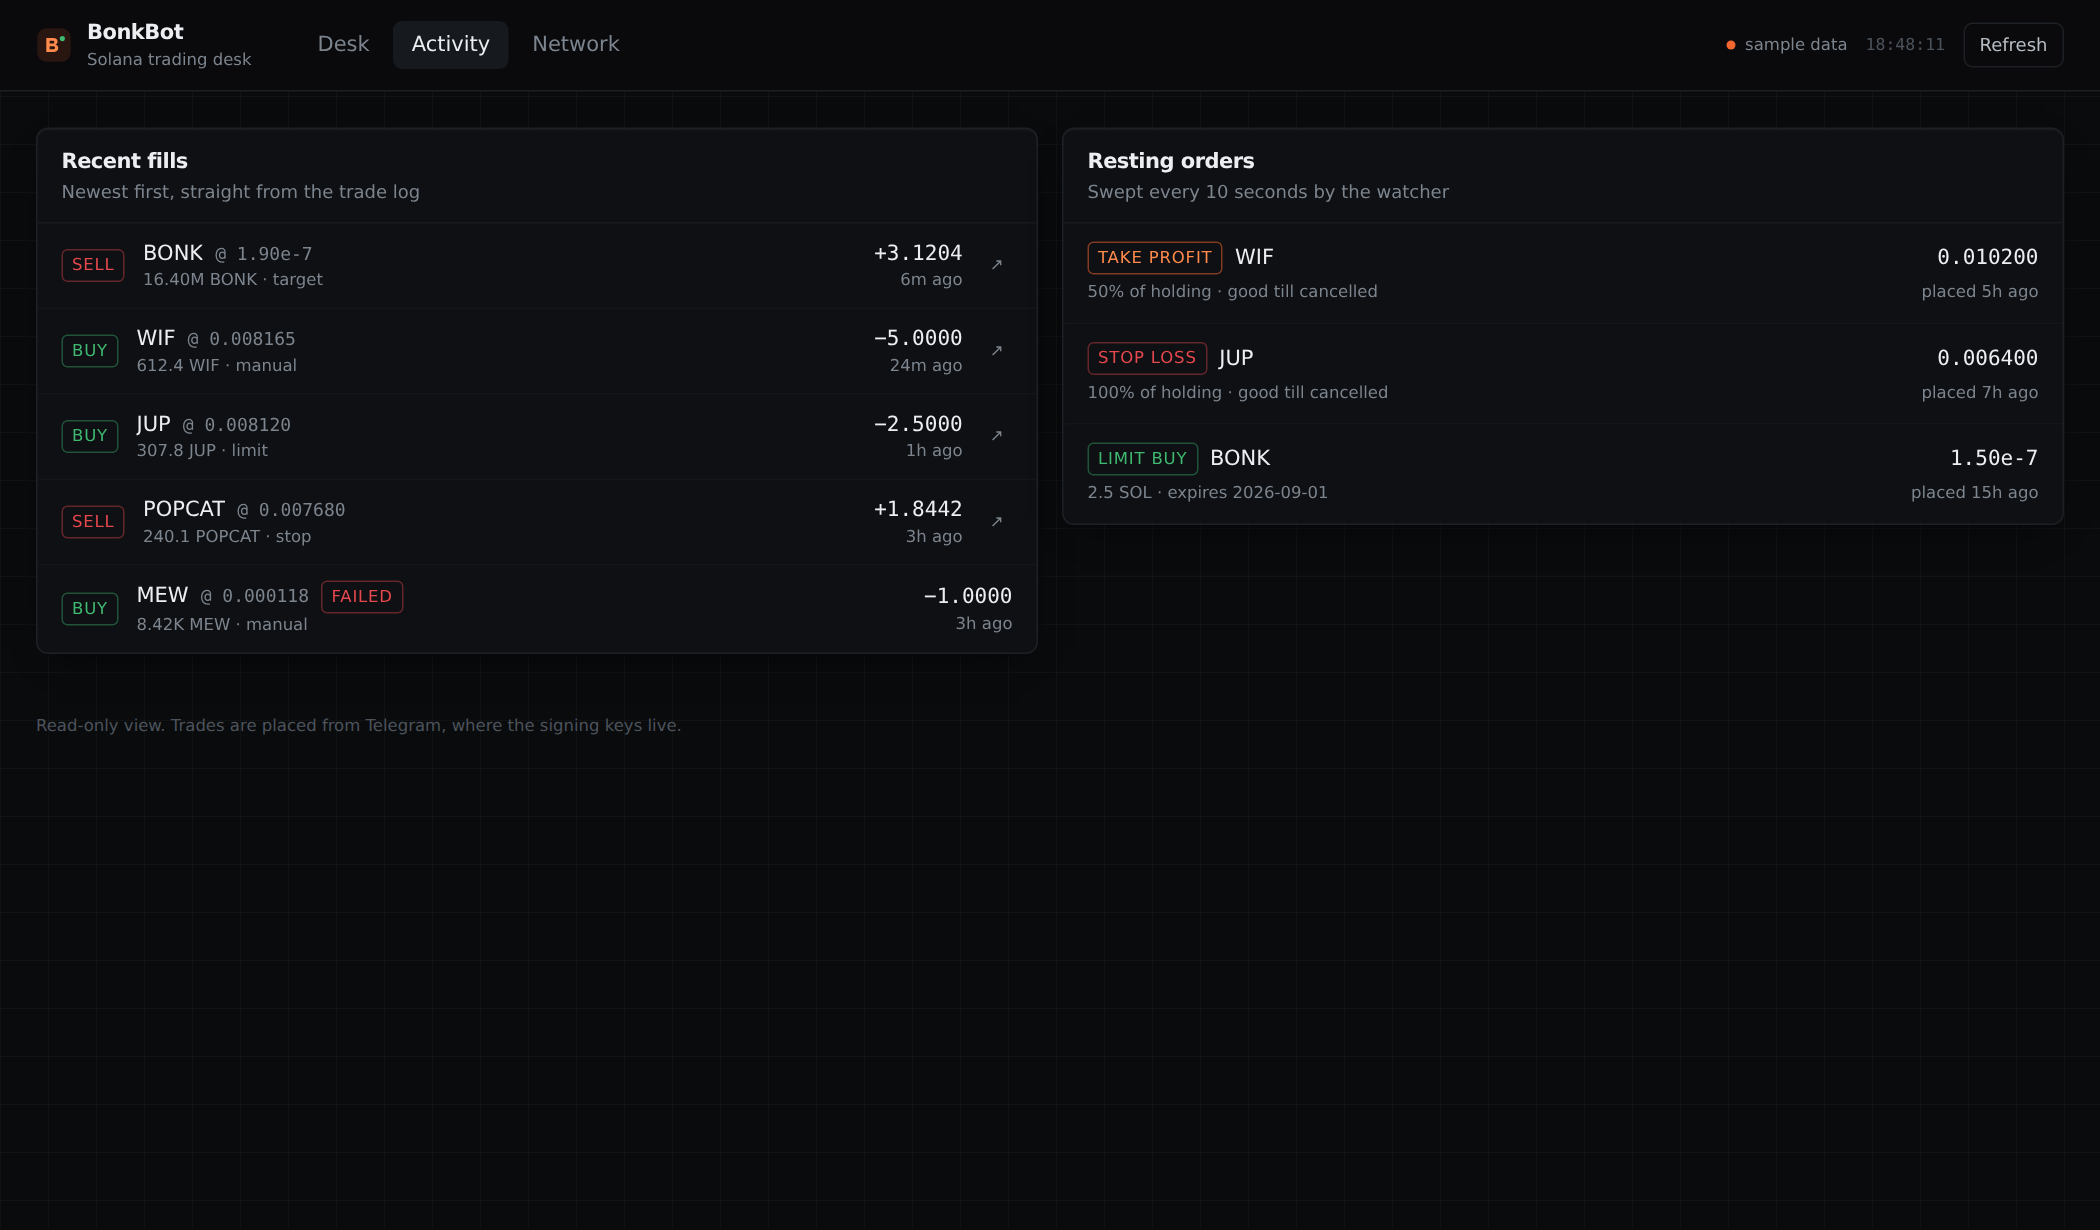
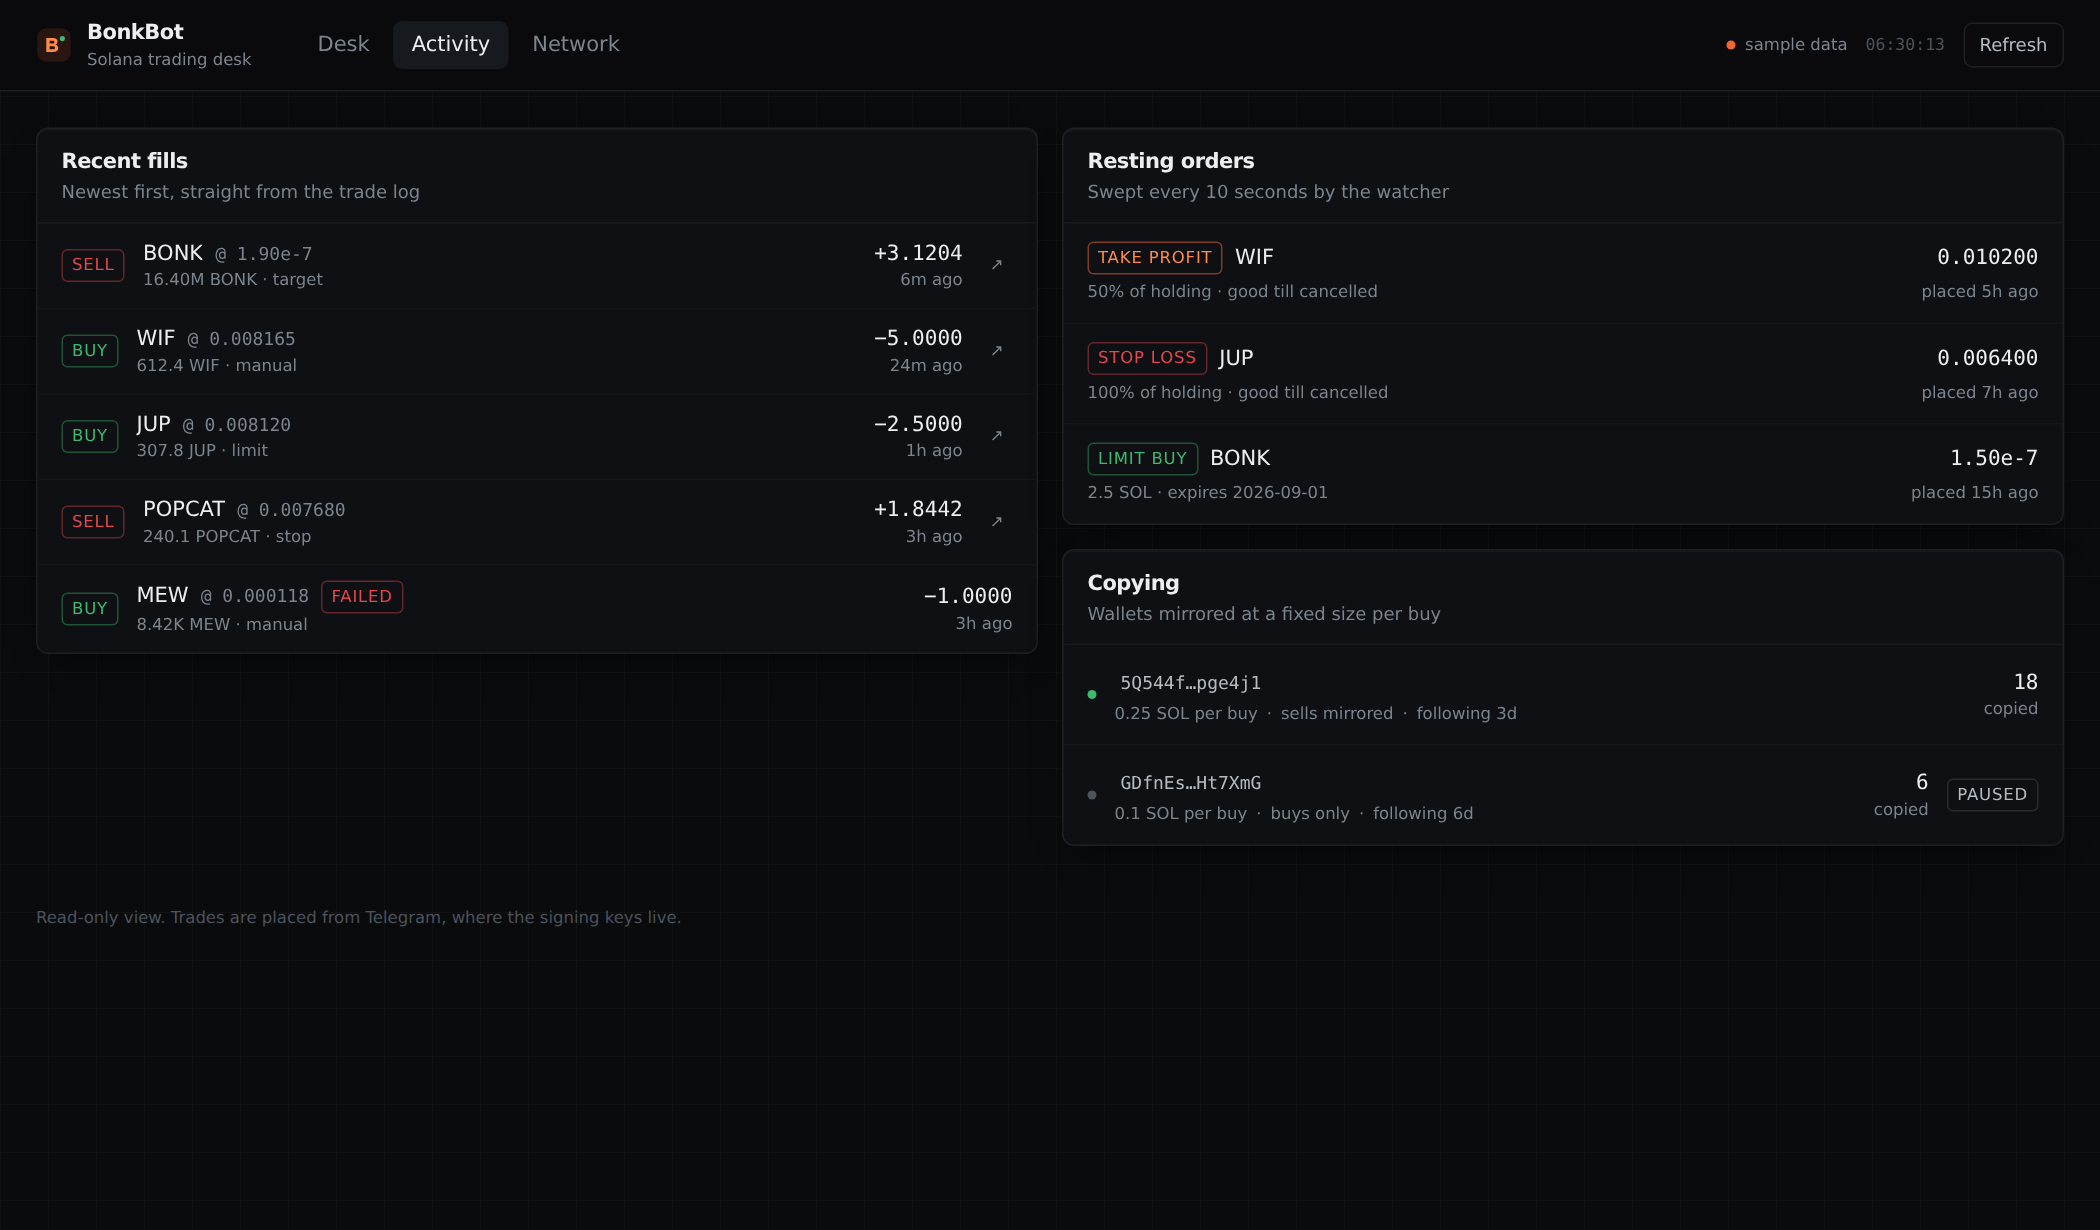
Show followed wallets on the dashboard
The Activity tab carried resting orders but nothing about copy trading,
so half of what the watchers do was invisible from the web.

The token endpoint returns only a cached safety verdict. Running a fresh
analysis costs two Jupiter quotes, and an unauthenticated endpoint that
triggers them is a way to make the deployment pay for someone's crawl.

diff --git a/web/src/App.tsx b/web/src/App.tsx
@@ -1,8 +1,15 @@
 import { useCallback, useEffect, useMemo, useState } from 'react';
-import { fetchOrders, fetchOverview, fetchPortfolio, fetchTrades } from './lib/api';
+import {
+  fetchCopyTargets,
+  fetchOrders,
+  fetchOverview,
+  fetchPortfolio,
+  fetchTrades,
+} from './lib/api';
 import { pct, usd } from './lib/format';
 import { Leaderboard } from './components/Leaderboard';
 import { Metric } from './components/Metric';
+import { CopyPanel } from './components/CopyPanel';
 import { OrdersPanel } from './components/OrdersPanel';
 import { PositionsTable } from './components/PositionsTable';
 import { Shell, type View } from './components/Shell';
@@ -10,7 +17,7 @@ import { Sparkline } from './components/Sparkline';
 import { TradesTable } from './components/TradesTable';
 import { WalletsPanel } from './components/WalletsPanel';
 import { Panel, SkeletonRows } from './components/primitives';
-import type { Overview, OrderRow, Portfolio, TradeRow } from './lib/types';
+import type { CopyTargetRow, Overview, OrderRow, Portfolio, TradeRow } from './lib/types';
 
 const REFRESH_MS = 20_000;
 
@@ -22,6 +29,7 @@ interface DeskData {
   portfolio: Portfolio;
   trades: TradeRow[];
   orders: OrderRow[];
+  copyTargets: CopyTargetRow[];
 }
 
 export default function App() {
@@ -31,15 +39,23 @@ export default function App() {
   const [updatedAt, setUpdatedAt] = useState<Date | null>(null);
 
   const load = useCallback(async () => {
-    const [[overview, o1], [portfolio, o2], [trades, o3], [orders, o4]] = await Promise.all([
-      fetchOverview(),
-      fetchPortfolio(userRef),
-      fetchTrades(userRef),
-      fetchOrders(userRef),
-    ]);
+    const [[overview, o1], [portfolio, o2], [trades, o3], [orders, o4], [copies, o5]] =
+      await Promise.all([
+        fetchOverview(),
+        fetchPortfolio(userRef),
+        fetchTrades(userRef),
+        fetchOrders(userRef),
+        fetchCopyTargets(userRef),
+      ]);
 
-    setData({ overview, portfolio, trades: trades.trades, orders: orders.orders });
-    setLive(o1 && o2 && o3 && o4);
+    setData({
+      overview,
+      portfolio,
+      trades: trades.trades,
+      orders: orders.orders,
+      copyTargets: copies.targets,
+    });
+    setLive(o1 && o2 && o3 && o4 && o5);
     setUpdatedAt(new Date());
   }, []);
 
@@ -82,7 +98,7 @@ export default function App() {
     );
   }
 
-  const { overview, portfolio, trades, orders } = data;
+  const { overview, portfolio, trades, orders, copyTargets } = data;
   const equitySol =
     portfolio.totals.valueSol +
     portfolio.wallets.reduce((sum, wallet) => sum + wallet.solBalance, 0);
@@ -157,9 +173,14 @@ export default function App() {
           <Panel title="Recent fills" subtitle="Newest first, straight from the trade log">
             <TradesTable trades={trades} />
           </Panel>
-          <Panel title="Resting orders" subtitle="Swept every 10 seconds by the watcher">
-            <OrdersPanel orders={orders} />
-          </Panel>
+          <div className="space-y-4">
+            <Panel title="Resting orders" subtitle="Swept every 10 seconds by the watcher">
+              <OrdersPanel orders={orders} />
+            </Panel>
+            <Panel title="Copying" subtitle="Wallets mirrored at a fixed size per buy">
+              <CopyPanel targets={copyTargets} />
+            </Panel>
+          </div>
         </div>
       )}
 

diff --git a/src/api/routes.ts b/src/api/routes.ts
@@ -3,6 +3,8 @@ import * as orderRepo from '../db/repositories/orders';
 import * as tradeRepo from '../db/repositories/trades';
 import * as userRepo from '../db/repositories/users';
 import * as walletService from '../services/wallets';
+import * as copyRepo from '../db/repositories/copy';
+import { cachedReport } from '../services/safety';
 import * as positionService from '../services/positions';
 import { getSolBalance, isValidAddress, isValidMint } from '../services/solana';
 import { getSolUsdPrice, getPriceInSol } from '../services/prices';
@@ -161,6 +163,27 @@ export const registerRoutes = (app: Express): void => {
     });
   });
 
+  app.get('/api/users/:userRef/copy-targets', (req: Request, res: Response) => {
+    const user = resolveUser(req.params.userRef ?? '');
+    if (!user) {
+      res.status(404).json({ error: 'user_not_found' });
+      return;
+    }
+
+    res.json({
+      targets: copyRepo.listByUser(user.id).map((target) => ({
+        id: target.id,
+        address: target.target_address,
+        label: target.label,
+        sizeSol: target.size_sol,
+        mirrorSells: Boolean(target.mirror_sells),
+        status: target.status,
+        copiedCount: target.copied_count,
+        createdAt: target.created_at,
+      })),
+    });
+  });
+
   app.get('/api/tokens/:mint', async (req: Request, res: Response) => {
     const mint = req.params.mint ?? '';
     if (!isValidMint(mint)) {
@@ -182,6 +205,9 @@ export const registerRoutes = (app: Express): void => {
       logoUri: token.logo_uri,
       priceSol: priceSol ?? 0,
       priceUsd: (priceSol ?? 0) * solUsd,
+      // Only the cached verdict: a fresh analysis costs two quotes and this
+      // endpoint should not be a way to make the bot pay for someone's crawl.
+      safety: cachedReport(mint) ?? null,
     });
   });
 

diff --git a/web/src/components/CopyPanel.tsx b/web/src/components/CopyPanel.tsx
@@ -1,0 +1,47 @@
+import { relativeTime, shortAddress } from '../lib/format';
+import { Copyable, EmptyState, Tag } from './primitives';
+import type { CopyTargetRow } from '../lib/types';
+
+export const CopyPanel = ({ targets }: { targets: CopyTargetRow[] }) => {
+  if (targets.length === 0) {
+    return (
+      <EmptyState
+        title="Not following anyone"
+        hint="Followed wallets are scanned every 20 seconds and their swaps mirrored at a fixed size."
+      />
+    );
+  }
+
+  return (
+    <ul className="divide-y divide-ink-600/40">
+      {targets.map((target) => (
+        <li key={target.id} className="flex items-center gap-3 px-4 py-3">
+          <span
+            className={`h-1.5 w-1.5 shrink-0 rounded-full ${
+              target.status === 'active' ? 'bg-gain' : 'bg-chalk-700'
+            }`}
+            title={target.status === 'active' ? 'Mirroring' : 'Paused'}
+          />
+
+          <div className="min-w-0 flex-1">
+            <Copyable value={target.address} display={shortAddress(target.address, 6)} />
+            <div className="mt-0.5 flex items-center gap-1.5 text-2xs text-chalk-500">
+              <span>{target.sizeSol} SOL per buy</span>
+              <span>·</span>
+              <span>{target.mirrorSells ? 'sells mirrored' : 'buys only'}</span>
+              <span>·</span>
+              <span>following {relativeTime(target.createdAt).replace(' ago', '')}</span>
+            </div>
+          </div>
+
+          <div className="text-right">
+            <div className="tabular font-mono text-sm text-chalk-100">{target.copiedCount}</div>
+            <div className="text-2xs text-chalk-500">copied</div>
+          </div>
+
+          {target.status === 'paused' && <Tag>paused</Tag>}
+        </li>
+      ))}
+    </ul>
+  );
+};

diff --git a/web/src/lib/demo.ts b/web/src/lib/demo.ts
@@ -1,4 +1,4 @@
-import type { Overview, OrderRow, Portfolio, TradeRow } from './types';
+import type { CopyTargetRow, Overview, OrderRow, Portfolio, TradeRow } from './types';
 
 /**
  * Sample desk used when the API is not reachable (a static deploy, or the
@@ -104,4 +104,27 @@ export const demoOrders: OrderRow[] = [
   { id: 84, kind: 'take_profit', symbol: 'WIF', mint: 'EKpQGSJtjMFqKZ9KQanSqYXRcF8fBopzLHYxdM65zcjm', triggerPriceSol: 0.0102, amountSol: null, amountPct: 50, expiresAt: null, createdAt: minutesAgo(320) },
   { id: 83, kind: 'stop_loss', symbol: 'JUP', mint: 'JUPyiwrYJFskUPiHa7hkeR8VUtAeFoSYbKedZNsDvCN', triggerPriceSol: 0.0064, amountSol: null, amountPct: 100, expiresAt: null, createdAt: minutesAgo(420) },
   { id: 82, kind: 'limit_buy', symbol: 'BONK', mint: 'DezXAZ8z7PnrnRJjz3wXBoRgixCa6xjnB7YaB1pPB263', triggerPriceSol: 0.00000015, amountSol: 2.5, amountPct: null, expiresAt: '2026-09-01 00:00:00', createdAt: minutesAgo(900) },
+];
+
+export const demoCopyTargets: CopyTargetRow[] = [
+  {
+    id: 3,
+    address: '5Q544fKrFoe6tsEbD7S8EmxGTJYAKtTVhAW5Q5pge4j1',
+    label: null,
+    sizeSol: 0.25,
+    mirrorSells: true,
+    status: 'active',
+    copiedCount: 18,
+    createdAt: minutesAgo(4320),
+  },
+  {
+    id: 2,
+    address: 'GDfnEsia2WLAW5t8yx2X5j2mkfA74i5kwGdDuZHt7XmG',
+    label: null,
+    sizeSol: 0.1,
+    mirrorSells: false,
+    status: 'paused',
+    copiedCount: 6,
+    createdAt: minutesAgo(9000),
+  },
 ];

diff --git a/web/src/lib/api.ts b/web/src/lib/api.ts
@@ -1,5 +1,5 @@
-import { demoOrders, demoOverview, demoPortfolio, demoTrades } from './demo';
-import type { Overview, OrderRow, Portfolio, TradeRow } from './types';
+import { demoCopyTargets, demoOrders, demoOverview, demoPortfolio, demoTrades } from './demo';
+import type { CopyTargetRow, Overview, OrderRow, Portfolio, TradeRow } from './types';
 
 const BASE = import.meta.env.VITE_API_URL ?? '';
 
@@ -43,4 +43,10 @@ export const fetchOrders = (userRef: number | string) =>
   withDemo(
     () => get<{ orders: OrderRow[] }>(`/api/users/${userRef}/orders`),
     { orders: demoOrders },
+  );
+
+export const fetchCopyTargets = (userRef: number | string) =>
+  withDemo(
+    () => get<{ targets: CopyTargetRow[] }>(`/api/users/${userRef}/copy-targets`),
+    { targets: demoCopyTargets },
   );

diff --git a/web/src/lib/types.ts b/web/src/lib/types.ts
@@ -71,3 +71,14 @@ export interface OrderRow {
   expiresAt: string | null;
   createdAt: string;
 }
+
+export interface CopyTargetRow {
+  id: number;
+  address: string;
+  label: string | null;
+  sizeSol: number;
+  mirrorSells: boolean;
+  status: 'active' | 'paused';
+  copiedCount: number;
+  createdAt: string;
+}
